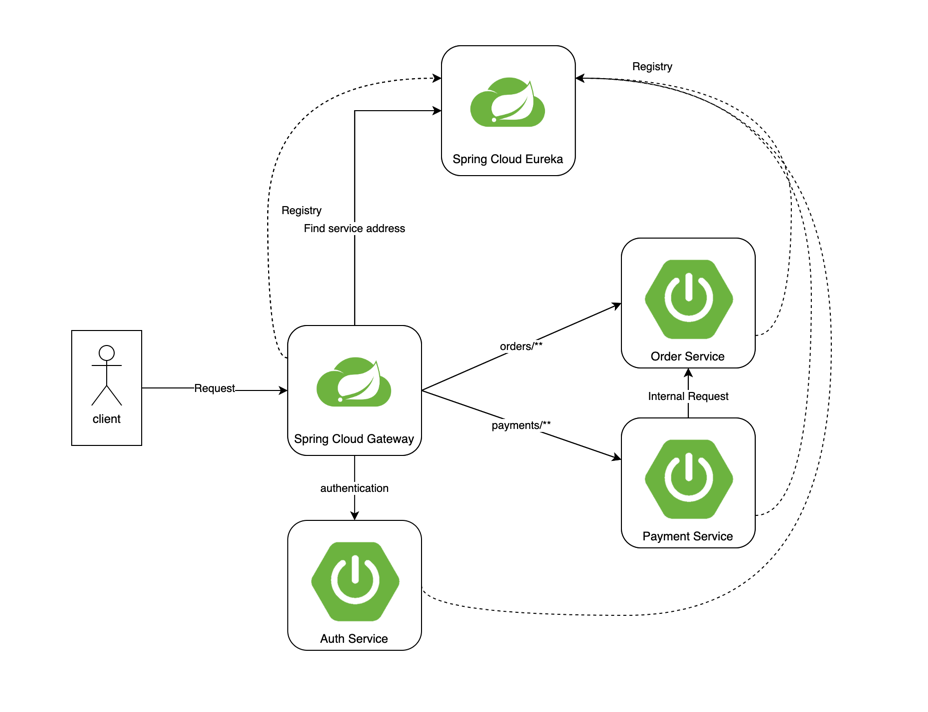
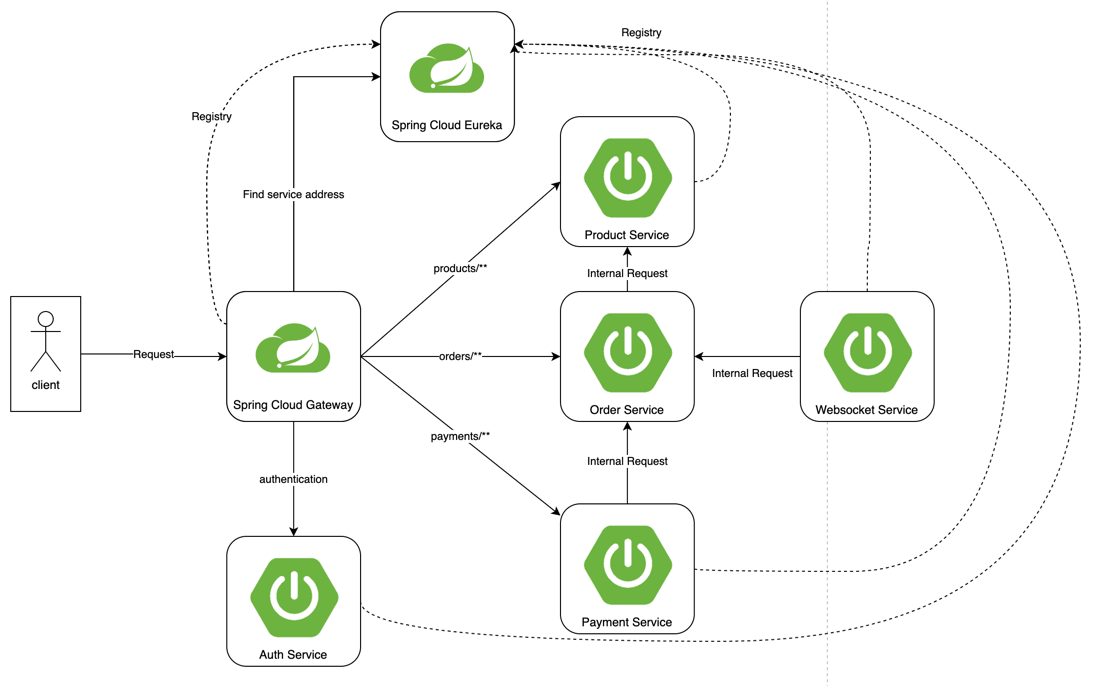
spring cloud msa - README 정보 현행화
- product 서비스 정보 추가
- 이벤트 활용 예시 추가
- API 호출 샘플 수정

diff --git a/hands-on-msa/hands-on-msa-with-spring-cloud/README.md b/hands-on-msa/hands-on-msa-with-spring-cloud/README.md
@@ -4,16 +4,44 @@ Spring Cloud 구성을 통해 MSA 구조 핸즈온 프로젝트
 # 프로젝트 구조
 ```shell
 .
-├── ...
-├── api-gateway-app # API Gateway
-├── auth-service-app # Service (인증)
-├── eureka-server-app # Discovery
-├── order-service-app # Service (주문)
-├── payment-service-app # Service (결제)
-├── settings.gradle
+├── app
+    ├── api-gateway-app # API Gateway
+    ├── auth-service-app # Service (인증)
+    ├── eureka-server-app # Discovery
+    ├── order-service-app # Service (주문)
+    ├── payment-service-app # Service (결제)
+    ├── settings.gradle
 └── src
     ├── main
     └── test
+.
+└── hands-on-msa-with-spring-cloud
+    ├── README.md
+    ├── app # 애플리케이션
+    │   ├── api-gateway-app # API Gateway
+    │   ├── auth-app  # Service (인증)
+    │   ├── eureka-server-app # Discovery
+    │   ├── order-service-app # Service (주문)
+    │   ├── payment-service-app # Service (결제)
+    │   ├── product-service-app # Service (상품)
+    │   ├── ui-app # UI
+    │   └── websocket-service-app # Service (웹소켓)
+    ├── data # 데이터
+    │   ├── auth-service-dto # 데이터 (인증)
+    │   ├── event-model # 이벤트
+    │   ├── order-service-dto # 데이터 (주문)
+    │   └── product-service-dto # 데이터 (상품)
+    ├── lib # 라이브러리 
+    │   ├── auth-service-client # 인증 API 클라이언트
+    │   ├── external-event-adapter # 공통 외부 이벤트 리스너
+    │   ├── external-event-router # 공통 외부 이벤트 퍼블리셔
+    │   ├── internal-service-client # 내부 API Rest client
+    │   ├── rest-model # 내부 Rest 데이터 및 예외 처리
+    │   ├── security-filter # 인증 공통 필터
+    │   ├── security-util # 인증 공통 유틸 
+    ├── readme # README 작성용
+    │   ├── ...
+
 ```
 
 # 아키텍처
@@ -27,6 +55,7 @@ Spring Cloud 구성을 통해 MSA 구조 핸즈온 프로젝트
 | **Order Service** (`order-service`)          | 8081 | 주문 관련 서비스     |
 | **Payment Service** (`payment-service`)      | 8082 | 결제 관련 서비스     |
 | **Websocket Service** (`webesocket-service`) | 8083 | 웹소켓 관련 서비스    |
+| **Product Service** (`products-service`)     | 8084 | 상품 관련 서비스     |
 
 ## 흐름
 1. 모든 마이크로서비스는 Eureka에 등록
@@ -50,6 +79,8 @@ Spring Cloud 구성을 통해 MSA 구조 핸즈온 프로젝트
 ### [Payment Service](app/payment-service-app/README.md)
 
 ### [Websocket Service](app/websocket-service-app/README.md)
+
+### [Product Service](app/product-service-app/README.md)
 
 # 인증 과정
 인증값은 크게 3가지를 사용함
@@ -93,11 +124,55 @@ Gateway는 사용자의 session을 받아 인증 서비스로부터 Passport를 
 - payload : 직렬화된 내부 이벤트 정보
 - eventType : 직렬화 전 클래스 타입 정보 (원래의 클래스로 역직렬화 하기위해 사용)
 
-## 이벤트 처리를 위한 요
+## 이벤트 처리를 위한 요소
 ![img_1.png](readme/event-components.png)
  - event-model : 공통 이벤트 정의
  - event-router : 이벤트 발행 공통 컴포넌트
  - event-adaptor : 이벤트 구독 공통 컴포넌트
+
+## 활용 예시
+공통 이벤트 처리 구조를 활용하여 주문 목록을 실시간으로 갱신하는 예시
+![img.png](readme/order-streaming-change-sample.png)
+1. 사용자는 상품 페이지에서 상품을 `주문`
+2. 주문 서비스는 주문 요청을 받고 `주문을 생성`
+3. 주문 생성 후 주문 생성 `이벤트 발행`
+4. 웹소켓 서비스는 주문 생성 `이벤트를 구독`
+5. 주문 생성 이벤트가 발생하면 주문 변경 내용을 사용자 `브라우저에 전파` (ws이용)
+6. 사용자 브러우저에서 `주문 목록을 갱신`하여 최신 데이터 유지
+### 주문 생성 관련 이벤트
+![order-event.png](readme/order-event.png)
+```java
+//외부 이벤트에서 내부 이벤트를ㄹ 랩핑할 때 활용함
+@Getter
+@NoArgsConstructor
+public class DomainEvent {
+}
+
+//정보 변경 시 발행되는 이벤트
+@Getter
+@NoArgsConstructor
+public class ResourceDataEvent<T> extends DomainEvent{
+    private T data;
+    private EventType eventType;
+
+    public ResourceDataEvent(T data, EventType eventType) {
+        this.data = data;
+        this.eventType = eventType;
+    }
+}
+
+//주문 정보 변경 시 발행되는 이벤트
+@Getter
+@NoArgsConstructor
+public class OrderResourceDataEvent extends ResourceDataEvent<OrderDto> {
+
+    public OrderResourceDataEvent(OrderDto data, EventType eventType) {
+        super(data, eventType);
+    }
+}
+
+```
+
 
 # 테스트
 ## 로그인
@@ -108,6 +183,19 @@ curl -c cookies.txt -X POST http://localhost:8080/auth/login   -d "username=user
 
 ## API 호출
 ```shell
-curl -b cookies.txt http://localhost:8080/orders/123
-# >> "Order ID: 123, Payment: Payment processed for Order ID: 123"
+curl --location --request POST 'http://localhost:8081/orders' \
+--header 'X-Passport-Token: ...' \
+--header 'Content-Type: application/json' \
+--data-raw '{
+    "productId": 1,
+    "amount": 1
+}'
+# >> {
+# >>    "id": 1,
+# >>    "productId": 1,
+# >>    "amount": 1,
+# >>    "totalPrice": 1000,
+# >>    "createdAt": "2025-08-18T00:02:35.853616",
+# >>    "updatedAt": "2025-08-18T00:02:35.853655"
+# >>}
 ```
